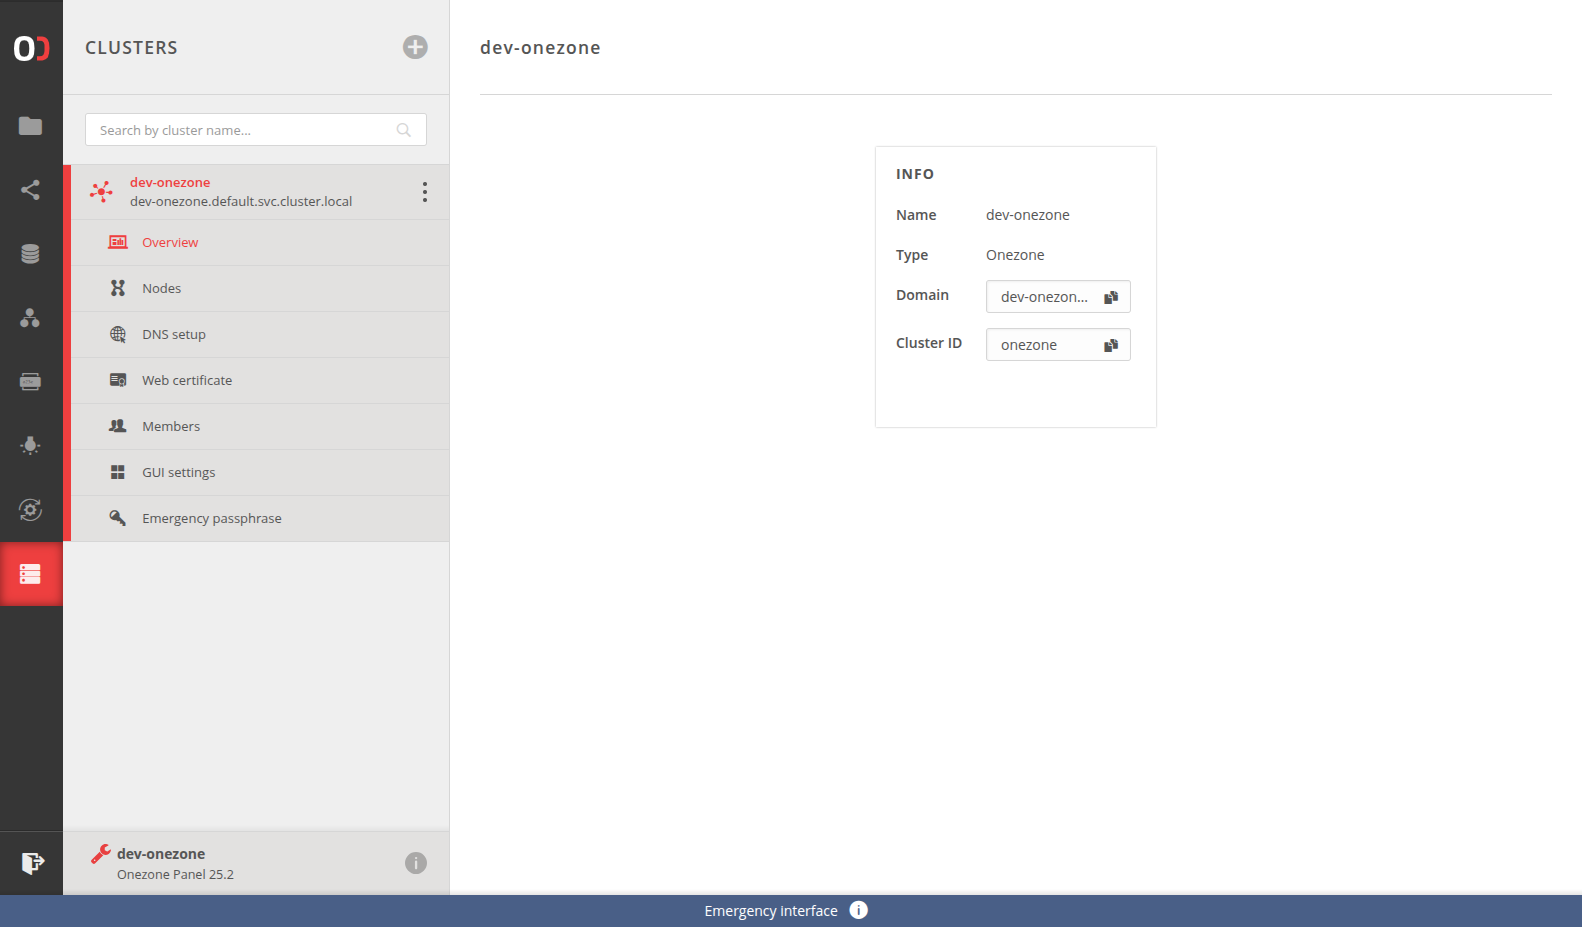
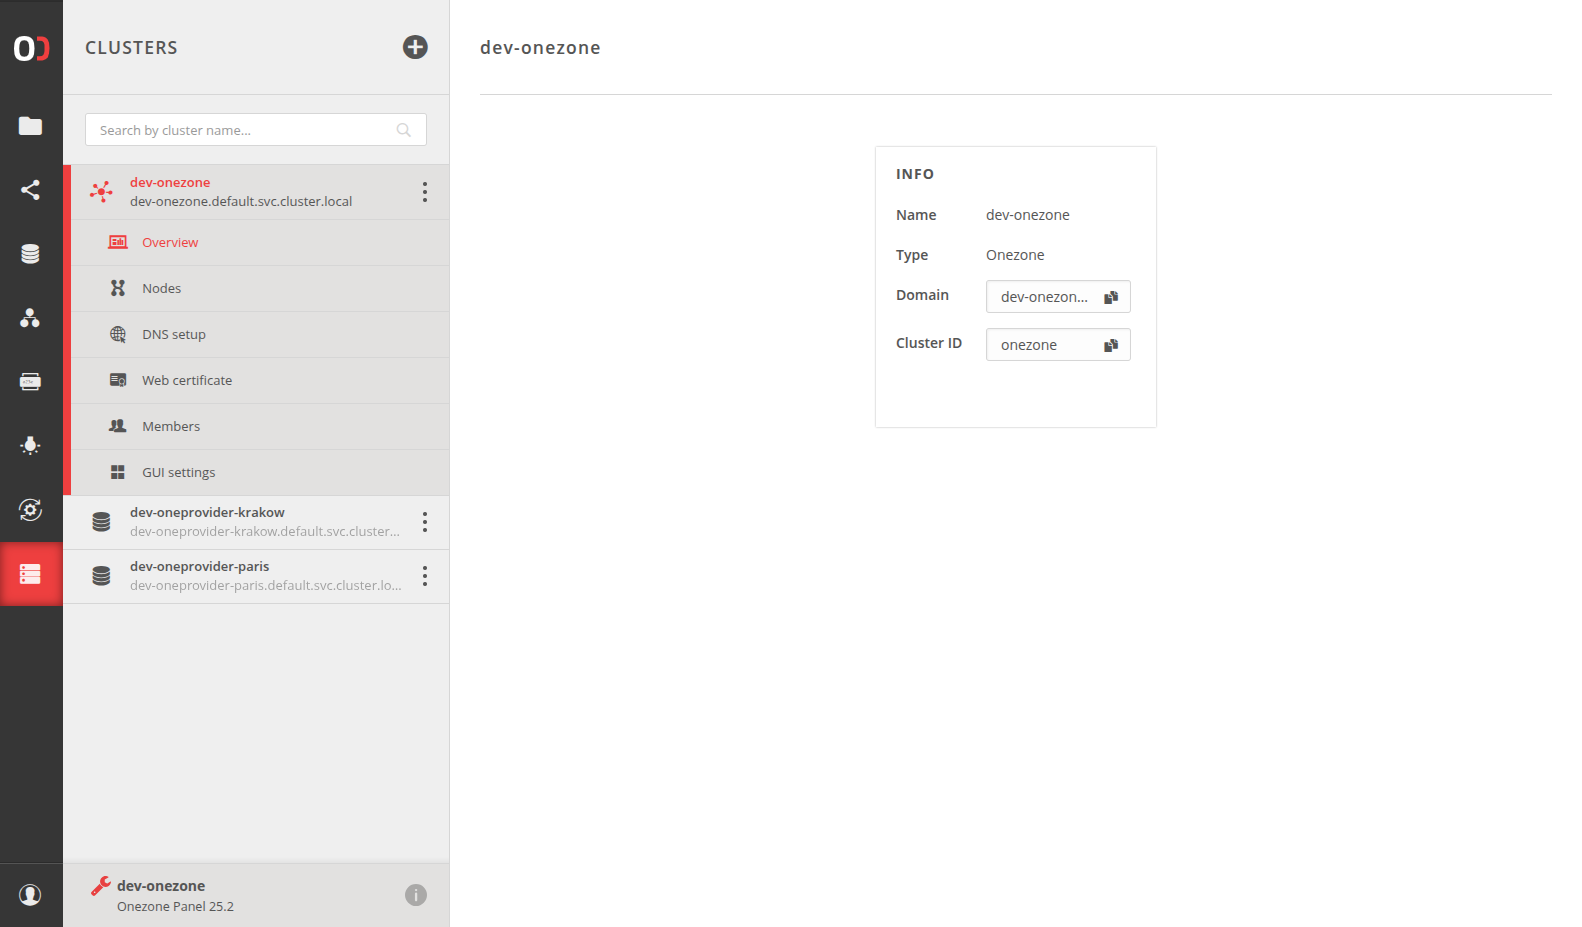
VFS-13162 fix screenshots, remove admin account info from op admin panel docs

diff --git a/docs/admin-guide/onezone/administration-panel.md b/docs/admin-guide/onezone/administration-panel.md
@@ -86,7 +86,8 @@ Do not confuse the `root` account with the `admin` user. A Onezone deployment
 creates a special `admin` user whose password initially equals the Onezone
 emergency passphrase, but it can be changed independently. This is an ordinary
 Onezone user account with privileges assigned to it, unlike `root`, which is not a
-Onezone user. See [Administrative privileges][] for details.
+Onezone user. See
+[Administrative privileges][2] for details.
 :::
 
 #### Changing the emergency interface passphrase
@@ -120,8 +121,6 @@ emergency passphrase always grants full management rights to the cluster.
 
 [Emergency Passphrase]: #emergency-passphrase
 
-[Administrative privileges]: ../administrative-privileges.md#the-default-admin-user
-
 [cluster members]: configuration/cluster-members.md
 
 [docker-compose]: ./installation.md
@@ -143,3 +142,5 @@ emergency passphrase always grants full management rights to the cluster.
 [screen-change-emergency-passphrase]: ../../../images/admin-guide/onezone/administration-panel/change-emergency-passphrase.png
 
 [1]: #managing-access-to-the-administration-panel
+
+[2]: ../administrative-privileges.md#the-default-admin-user

diff --git a/partials/admin-guide/administration-panel.md b/partials/admin-guide/administration-panel.md
@@ -78,15 +78,7 @@ knows it gets full control of the cluster, so leaking it can lead to
 unauthorized access by third parties and data loss.
 :::
 
-::: tip NOTE
-Do not confuse the `root` account with the `admin` user. A Onezone deployment
-creates a special `admin` user whose password initially equals the Onezone
-emergency passphrase, but it can be changed independently. This is an ordinary
-Onezone user account with privileges assigned to it, unlike `root`, which is not a
-Onezone user. See [Administrative privileges][] for details.
-:::
-
-#### Changing the emergency interface passphrase
+**@insert defaultAdminNote**#### Changing the emergency interface passphrase
 
 You can change the emergency passphrase if you suspect that the current one is
 no longer secure. This is possible only through the emergency interface of the
@@ -116,8 +108,6 @@ emergency passphrase always grants full management rights to the cluster.
 [toc]: <>
 
 [Emergency Passphrase]: #emergency-passphrase
-
-[Administrative privileges]: ../administrative-privileges.md#the-default-admin-user
 
 [cluster members]: configuration/cluster-members.md
 

diff --git a/docs/admin-guide/oneprovider/administration-panel.md b/docs/admin-guide/oneprovider/administration-panel.md
@@ -83,14 +83,6 @@ knows it gets full control of the cluster, so leaking it can lead to
 unauthorized access by third parties and data loss.
 :::
 
-::: tip NOTE
-Do not confuse the `root` account with the `admin` user. A Onezone deployment
-creates a special `admin` user whose password initially equals the Onezone
-emergency passphrase, but it can be changed independently. This is an ordinary
-Onezone user account with privileges assigned to it, unlike `root`, which is not a
-Onezone user. See [Administrative privileges][] for details.
-:::
-
 #### Changing the emergency interface passphrase
 
 You can change the emergency passphrase if you suspect that the current one is
@@ -121,8 +113,6 @@ emergency passphrase always grants full management rights to the cluster.
 [toc]: <>
 
 [Emergency Passphrase]: #emergency-passphrase
-
-[Administrative privileges]: ../administrative-privileges.md#the-default-admin-user
 
 [cluster members]: configuration/cluster-members.md
 

diff --git a/templates/admin-guide/onezone/administration-panel.md b/templates/admin-guide/onezone/administration-panel.md
@@ -4,6 +4,7 @@
     "domain": "my.zone.domain.org",
     "features": "* installing Onezone using the [docker-compose][],\n* [managing certificates][],",
     "featureReferences": "[docker-compose]: ./installation.md\n\n[managing certificates]: ./configuration/web-certificate.md",
+    "defaultAdminNote": "::: tip NOTE\nDo not confuse the `root` account with the `admin` user. A Onezone deployment\ncreates a special `admin` user whose password initially equals the Onezone\nemergency passphrase, but it can be changed independently. This is an ordinary\nOnezone user account with privileges assigned to it, unlike `root`, which is not a\nOnezone user. See\n[Administrative privileges](../administrative-privileges.md#the-default-admin-user) for details.\n:::\n\n",
     "screenshotDirectory": "../../../images/admin-guide/onezone/administration-panel"
   }
 -->

diff --git a/templates/admin-guide/oneprovider/administration-panel.md b/templates/admin-guide/oneprovider/administration-panel.md
@@ -4,6 +4,7 @@
     "domain": "my.provider.domain.org",
     "features": "* installing Oneprovider using the [graphical wizard][],\n* [managing certificates][],\n* adding new [storage backends][],\n* [supporting spaces][] with existing storage backends,",
     "featureReferences": "[graphical wizard]: ./installation/graphical-wizard.md\n\n[managing certificates]: ./configuration/web-certificate.md\n\n[storage backends]: ./configuration/storage-backends.md\n\n[supporting spaces]: ./configuration/space-support.md",
+    "defaultAdminNote": "",
     "screenshotDirectory": "../../../images/admin-guide/oneprovider/administration-panel"
   }
 -->
